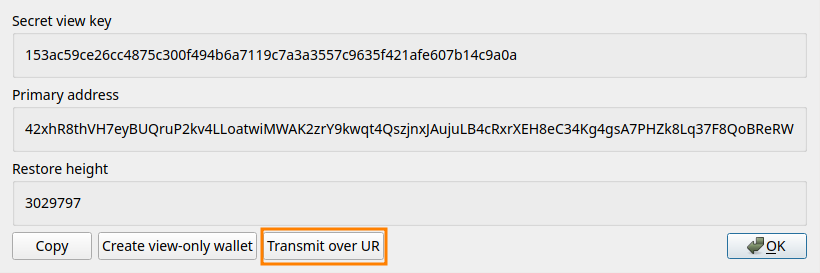
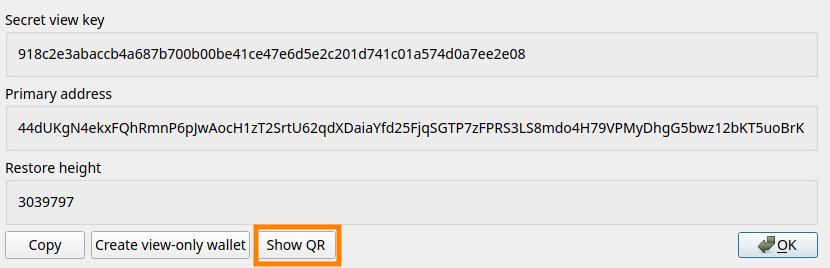
offline transaction signing: update for 2.6.1

diff --git a/content/_guides/offline_tx_signing.md b/content/_guides/offline_tx_signing.md
@@ -52,15 +52,13 @@ Now that you have your offline wallet set up, you need to create a corresponding
 
 Three pieces of information are required for this: secret view key, primary address, and restore height.
 
-The easiest way to transfer this information to your online device is by using a UR (animated QR code).
+The easiest way to transfer this information to your online device is scanning a QR code.
 
 ![Press view-only details](/static/files/airgap_mode_viewonly.png)
 
-![Transmit over UR](/static/files/airgap_transmit.png)
+![Show QR](/static/files/airgap_transmit.png)
 
-Press **View-only details**, then press **Transmit over UR**. You will be asked to enter a one-time password to encrypt your view-only details. This is the only time you will have to do this, future airgapped signing messages are automatically encrypted with the shared private view key. You can forget the one-time password after entering it on the online device in a later step.
-
-This will pop up a dialog with an animated QR code that covers most of the screen. Big QR codes are easier to scan.
+Press **View-only details**, then press **Show QR**.
 
 ![Restore wallet from keys](/static/files/airgap_menu.png)
 
@@ -68,21 +66,9 @@ On the **online** device, open the wizard and select **Restore wallet from keys*
 
 ![Scan UR](/static/files/airgap_restore.png)
 
-Press **Scan UR**. A dialog will show up that looks like this:
+Press **Scan QR** and scan the code shown on the offline device. If you have trouble scanning the QR code, see [Help: Airgapped signing issues](airgapped-signing-issues) for tips.
 
-![Scanning UI](/static/files/airgap_scan.png)
-
-Familiarize yourself with the scanning UI:
-
-1. If you have multiple cameras, you can click here to switch between cameras
-2. You can click on 'Refresh' to refresh the list of cameras
-3. This progress bar will fill up as you scan fragments. If it appears to get stuck on 99%, keep scanning.
-4. If you have trouble scanning the QR code due to glare, you can enable manual exposure here if your camera supports it. Use the slider to adjust the exposure level.
-
-Scan the code shown on the offline device. If everything went right, the dialog should close automatically on completion 
-and autofill the view-only details.
-
-If you have trouble scanning the QR code, see [Help: Airgapped signing issues](airgapped-signing-issues) for tips.
+If everything went right, the dialog should close automatically and autofill the view-only details.
 
 Step through the wizard. 
 
@@ -111,7 +97,16 @@ worry, the wizard will guide you through this.
 
 ![Click 'Sign a transaction..'](/static/files/airgap_mode_sign.png)
 
-To scan the animated QR code, click **Sign a transaction..** on the **offline** wallet.
+To scan the animated QR code, click **Sign a transaction..** on the **offline** wallet. A dialog will show up that looks like this:
+
+![Scanning UI](/static/files/airgap_scan.png)
+
+Familiarize yourself with the scanning UI:
+
+1. If you have multiple cameras, you can click here to switch between cameras
+2. You can click on 'Refresh' to refresh the list of cameras
+3. This progress bar will fill up as you scan fragments. If it appears to get stuck on 99%, keep scanning.
+4. If you have trouble scanning the QR code due to glare, you can enable manual exposure here if your camera supports it. Use the slider to adjust the exposure level.
 
 Follow the instructions in the wizard. Or continue reading here to go step by step.
 
